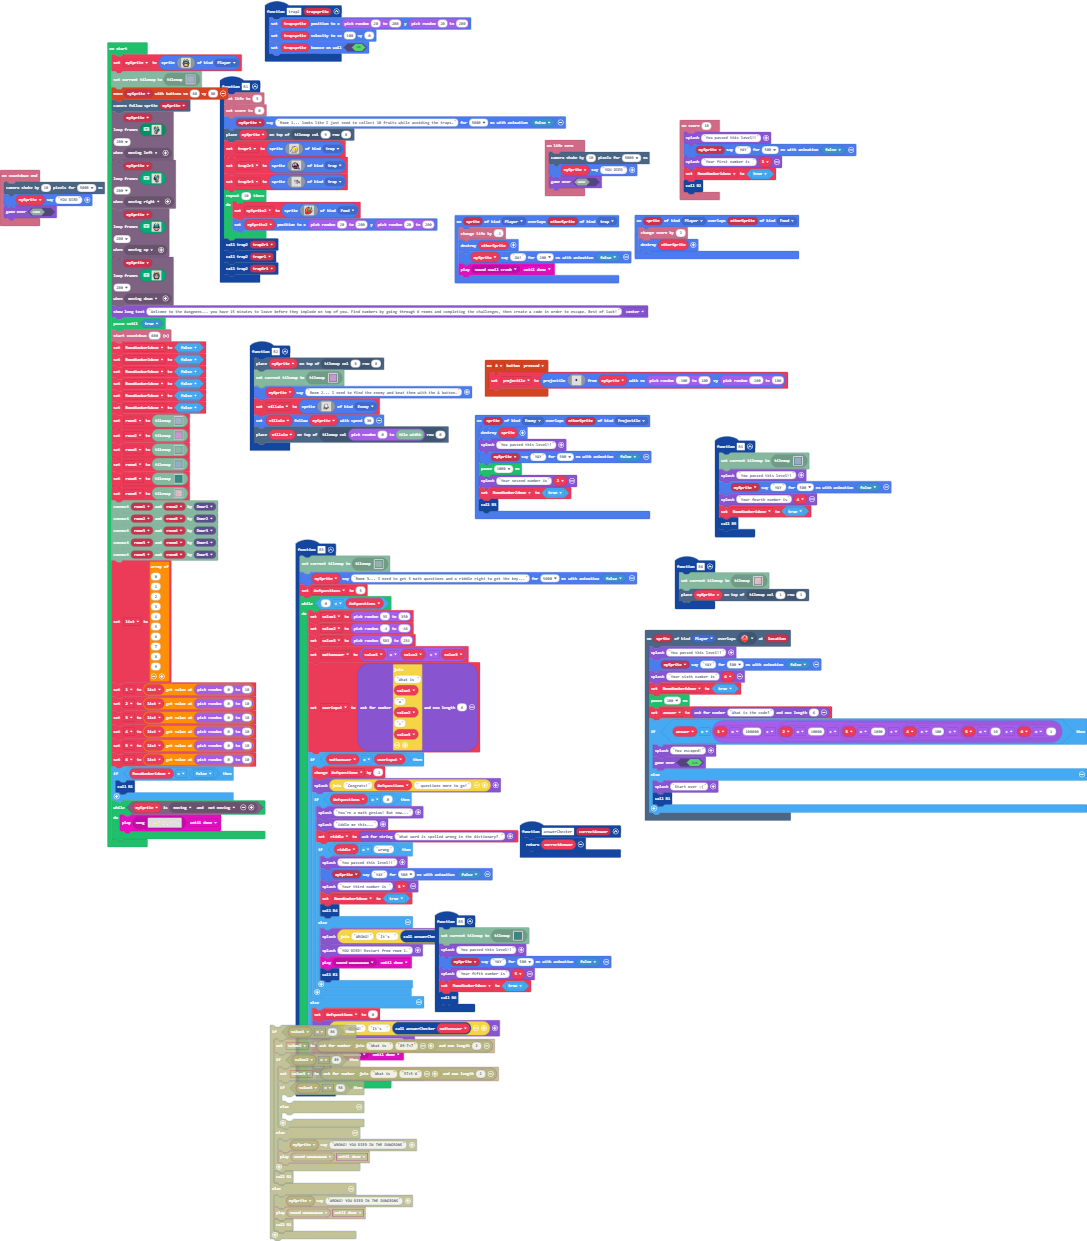
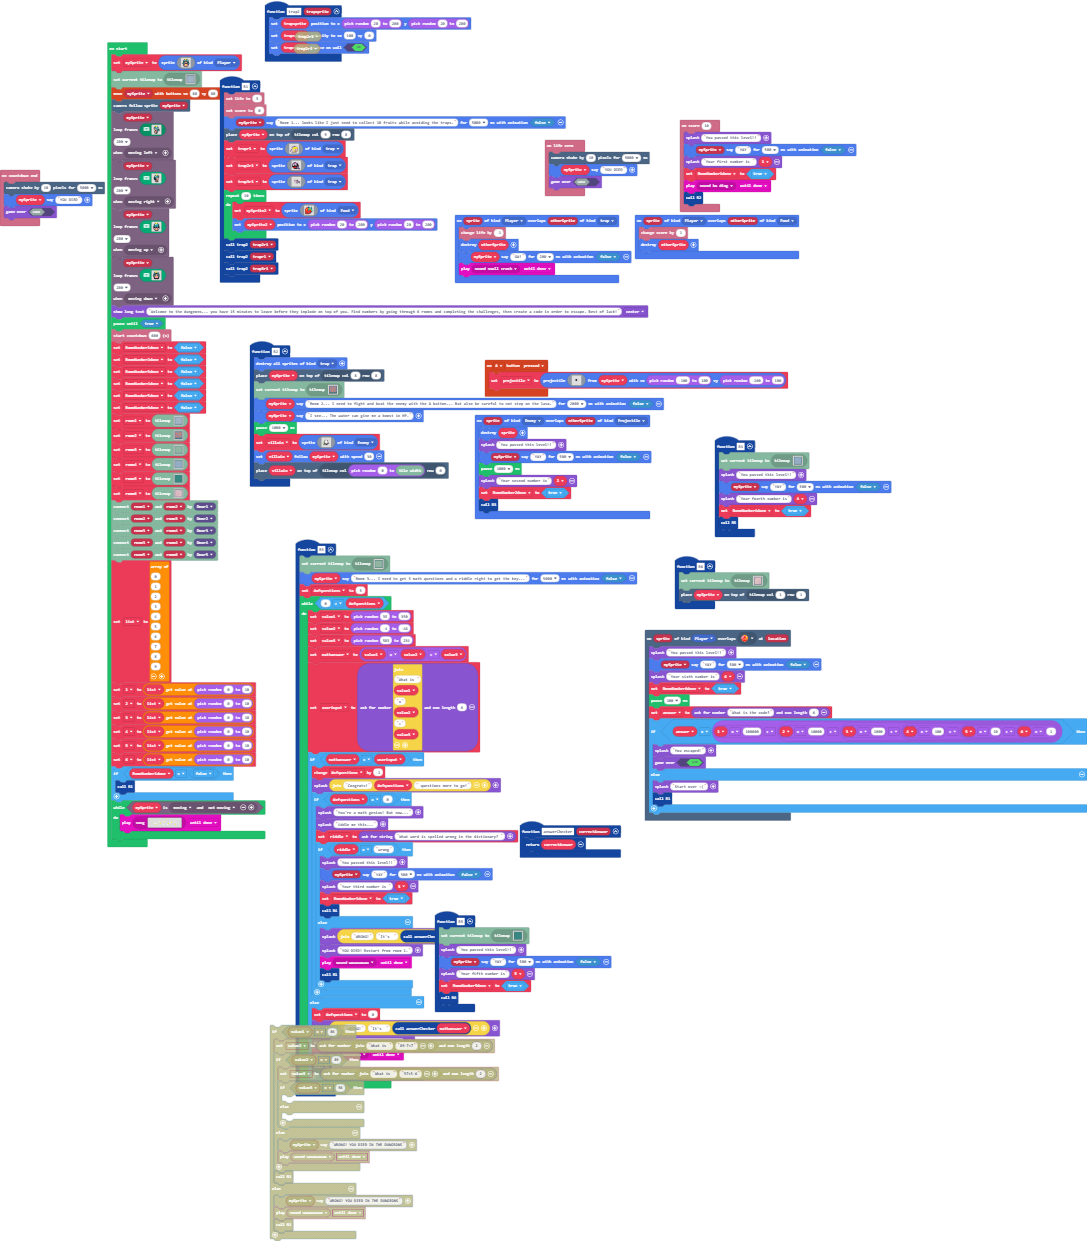
r2 map update

diff --git a/tilemap.g.ts b/tilemap.g.ts
@@ -538,25 +538,6 @@ namespace myTiles {
 . . . . . . . . . . . . . . . . 
 . . . . . . . . . . . . . . . . 
 `, [myTiles.transparency16], TileScale.Sixteen);
-            case "level2":
-            case "level2":return tiles.createTilemap(hex`1000100002010101010101010101010101010105060909090909090909090909090909080609090909090909090909090909090806090909090909090909090909090908060909090909090909090909090909080609090909090909090909090909090806090909090909090909090909090908060909090909090909090909090909080609090909090909090909090909090806090909090909090909090909090908060909090909090909090909090909080609090909090909090909090909090806090909090909090909090909090908060909090909090909090909090909080609090909090909090909090909090803070707070707070707070707070704`, img`
-2 2 2 2 2 2 2 2 2 2 2 2 2 2 2 2 
-2 . . . . . . . . . . . . . . 2 
-2 . . . . . . . . . . . . . . 2 
-2 . . . . . . . . . . . . . . 2 
-2 . . . . . . . . . . . . . . 2 
-2 . . . . . . . . . . . . . . 2 
-2 . . . . . . . . . . . . . . 2 
-2 . . . . . . . . . . . . . . 2 
-2 . . . . . . . . . . . . . . 2 
-2 . . . . . . . . . . . . . . 2 
-2 . . . . . . . . . . . . . . 2 
-2 . . . . . . . . . . . . . . 2 
-2 . . . . . . . . . . . . . . 2 
-2 . . . . . . . . . . . . . . 2 
-2 . . . . . . . . . . . . . . 2 
-2 2 2 2 2 2 2 2 2 2 2 2 2 2 2 2 
-`, [myTiles.transparency16,sprites.dungeon.greenOuterNorth0,sprites.dungeon.greenOuterNorthWest,sprites.dungeon.greenOuterSouthEast,sprites.dungeon.greenOuterSouthWest,sprites.dungeon.greenOuterNorthEast,sprites.dungeon.greenOuterWest1,sprites.dungeon.greenOuterSouth0,sprites.dungeon.greenOuterEast0,myTiles.tile3], TileScale.Sixteen);
             case "level8":
             case "level8":return tiles.createTilemap(hex`1000100002050505050505050505050505050507030101010101010101010101010101080301010101010101010101010101010803010101010101010101010101010108030101010101010101010101010101080301010101010101010101010101010803010101010101010101010101010108030101010101010101010101010101080301010101010101010101010101010803010101010101010101010101010108030101010101010101010101010101080301010101010101010101010101010803010101010101010101010101010108030101010101010101010101010101080301010101010101010101010101010804060606060606060606060606060609`, img`
 2 2 2 2 2 2 2 2 2 2 2 2 2 2 2 2 
@@ -690,6 +671,25 @@ namespace myTiles {
 2 . . . . . . . . . . . . . . 2 
 2 2 2 2 2 2 2 2 2 2 2 2 2 2 2 2 
 `, [myTiles.transparency16,myTiles.tile1,sprites.dungeon.greenOuterNorthWest,sprites.dungeon.greenOuterWest1,sprites.dungeon.greenOuterSouthEast,sprites.dungeon.greenOuterNorth0,sprites.dungeon.greenOuterSouth0,sprites.dungeon.greenOuterNorthEast,sprites.dungeon.greenOuterEast0,sprites.dungeon.greenOuterSouthWest], TileScale.Sixteen);
+            case "level2":
[1 lines of base64/hex data omitted]
+2 2 2 2 2 2 2 2 2 2 2 2 2 2 2 2 
+2 . . . . . . . . . . . . . . 2 
+2 . . . . . . . . . . . . . . 2 
+2 . . . . . . . . . . . . . . 2 
+2 . . . . . . . . . . . . . . 2 
+2 . . . . . . . . . . . . . . 2 
+2 . . . . . . . . . . . . . . 2 
+2 . . . . . . . . . . . . . . 2 
+2 . . . . . . . . . . . . . . 2 
+2 . . . . . . . . . . . . . . 2 
+2 . . . . . . . . . . . . . . 2 
+2 . . . . . . . . . . . . . . 2 
+2 2 2 2 2 2 2 2 2 2 2 2 2 2 2 2 
+2 . . . . . . . . . . . . . . 2 
+2 . . . . . . . . . . . . . . 2 
+2 2 2 2 2 2 2 2 2 2 2 2 2 2 2 2 
+`, [myTiles.transparency16,sprites.dungeon.greenOuterNorth0,sprites.dungeon.greenOuterNorthWest,sprites.dungeon.greenOuterSouthEast,sprites.dungeon.greenOuterSouthWest,sprites.dungeon.greenOuterNorthEast,sprites.dungeon.greenOuterWest1,sprites.dungeon.greenOuterSouth0,sprites.dungeon.greenOuterEast0,sprites.builtin.crowd8,sprites.builtin.crowd1,sprites.builtin.crowd2,sprites.builtin.crowd3,sprites.builtin.crowd4,sprites.builtin.crowd6,sprites.builtin.crowd0,sprites.dungeon.hazardLava1,sprites.castle.rock1,sprites.castle.saplingPine,sprites.vehicle.roadTurn2,sprites.vehicle.roadTurn4,sprites.vehicle.roadTurn1,sprites.vehicle.roadIntersection4,sprites.vehicle.roadIntersection3,sprites.vehicle.roadIntersection1,sprites.vehicle.roadIntersection2,sprites.builtin.crowd9,sprites.dungeon.hazardLava0,sprites.dungeon.hazardWater], TileScale.Sixteen);
         }
         return null;
     })

diff --git a/main.ts b/main.ts
@@ -151,12 +151,16 @@ info.onScore(10, function () {
     mySprite.sayText("YAY", 500, false)
     game.splash("Your first number is ", _1)
     RoomNumber1done = true
+    music.play(music.melodyPlayable(music.baDing), music.PlaybackMode.UntilDone)
     R2()
 })
 function R2 () {
+    sprites.destroyAllSpritesOfKind(SpriteKind.trap)
     tiles.placeOnTile(mySprite, tiles.getTileLocation(8, 8))
     tiles.loadMap(tiles.createMap(tilemap`level2`))
-    mySprite.sayText("Room 2... I need to find the enemy and beat them with the A button.")
+    mySprite.sayText("Room 2... I need to fight and beat the enemy with the A button... But also be careful to not step on the lava.", 2000, false)
+    mySprite.sayText("I see... The water can give me a boost in HP.")
+    pause(1000)
     villain = sprites.create(img`
         ........................
         ........................
